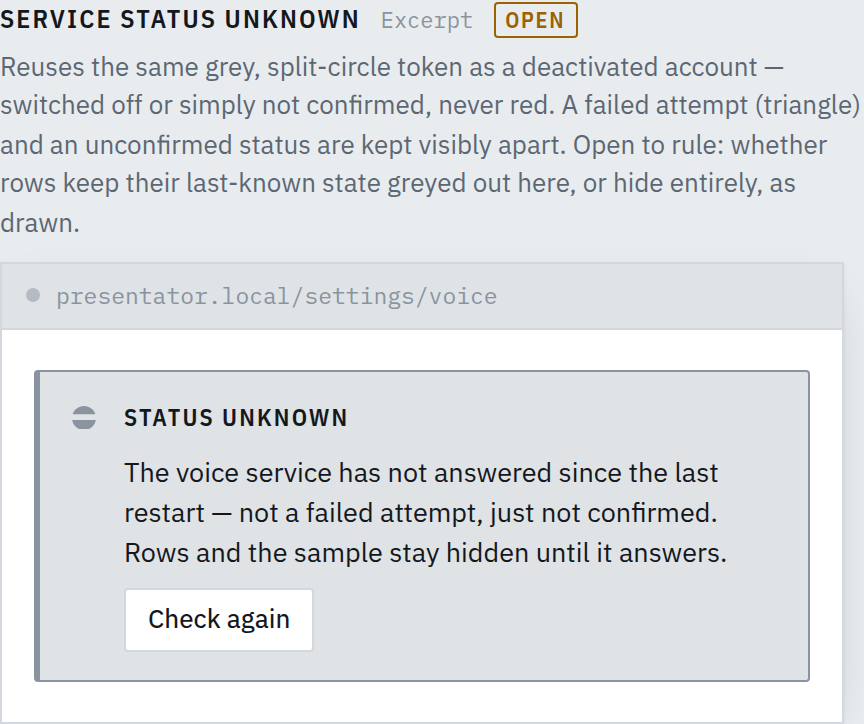
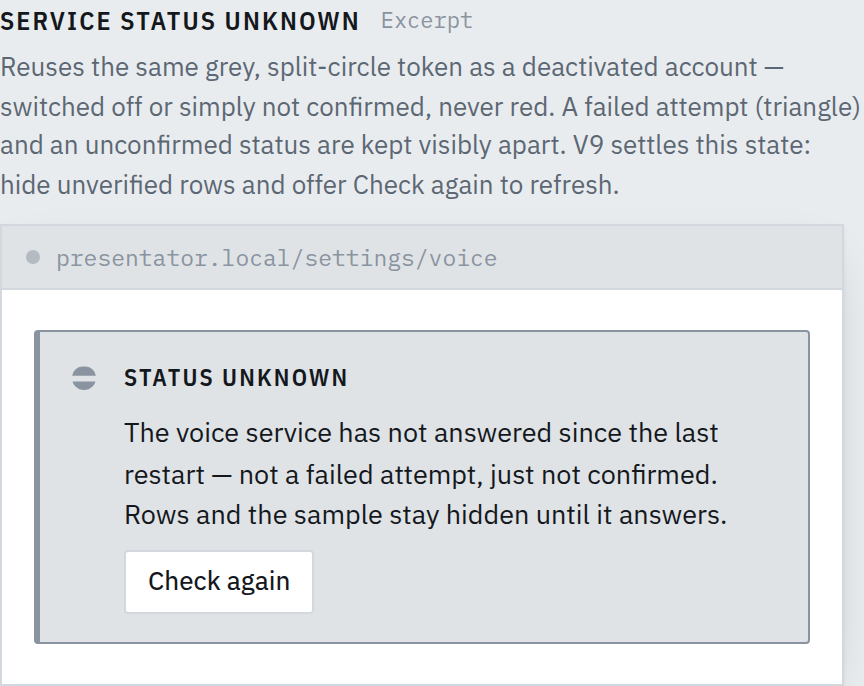
Freeze Voice requirements and settled picture (#135)
* docs: freeze voice requirements candidate

* docs: repair settled voice renders

Changed region(s): [[0.0, 0.3673, 1.0, 0.949], [0.0, 0.0, 1.0, 0.3367]]

diff --git a/docs/mockups/m0-lobby.html b/docs/mockups/m0-lobby.html
@@ -1625,7 +1625,7 @@
           <li><span><b>Sign up, forgot password</b> — an admin creates the account and resets the password (lines 14, 14b)</span></li>
           <li><span><b>Start in M0</b> — the two views are the way into the talk; the co-presenter run arrives with M1 (line 10)</span></li>
           <li><span><b>Build progress bar</b> — the server doesn't know percentages</span></li>
-          <li><span><b>Marketplace, arbitrary Hugging Face IDs, cloud voices, voice cloning</b> — five fixed candidates only, admin-picked (voice picture blessed 10.09.2026; behavior not yet ruled)</span></li>
+          <li><span><b>Marketplace, arbitrary Hugging Face IDs, cloud voices, voice cloning</b> — five fixed candidates only, admin-picked (picture blessed 10.09.2026; V1–V9 adopted; candidates remain unintegrated)</span></li>
         </ul>
       </section>
     </div>
@@ -3277,8 +3277,8 @@
   <section class="group">
     <div class="group-head">
       <h2>Settings · Voice</h2>
-      <span class="tag">Picture blessed · 10.09.2026</span>
-      <span class="lines">TBD — parent #108</span>
+      <span class="tag">Picture blessed · V1–V9 adopted</span>
+      <span class="lines">Owner: docs/requirements/0001-voice-models.md</span>
     </div>
 
     <div class="boards">
@@ -3840,8 +3840,8 @@
 
       <figure class="board">
         <figcaption class="board-cap">
-          <div class="board-title">Service status unknown <span class="w">Excerpt</span> <span class="open-mark">open</span></div>
-          <p class="board-note">Reuses the same grey, split-circle token as a deactivated account — switched off or simply not confirmed, never red. A failed attempt (triangle) and an unconfirmed status are kept visibly apart. Open to rule: whether rows keep their last-known state greyed out here, or hide entirely, as drawn.</p>
+          <div class="board-title">Service status unknown <span class="w">Excerpt</span></div>
+          <p class="board-note">Reuses the same grey, split-circle token as a deactivated account — switched off or simply not confirmed, never red. A failed attempt (triangle) and an unconfirmed status are kept visibly apart. V9 settles this state: hide unverified rows and offer Check again to refresh.</p>
         </figcaption>
         <div class="frame" style="--w: 420px">
           <div class="route">presentator.local/settings/voice</div>

diff --git a/docs/requirements/0001-voice-models.md b/docs/requirements/0001-voice-models.md
@@ -1,0 +1,117 @@
+# Voice model requirements
+
+Audience: the operator and the engineer implementing the admin Voice surface.
+Altitude: precise behavior contract. This document is the single owner of the
+adopted V1–V9 expectations; the [Voice picture](../mockups/README.md) is its
+visual reference and does not claim implementation.
+
+The operator had already spoken admin-only model controls, explicit download,
+load, select, and sample listening through the private control path. The
+remaining reversible defaults below were presented with examples,
+counterexamples, and the head's dissent, then adopted under the standing
+expectation-list rule after a response window exceeding two minutes without a
+contrary reply. This records adoption provenance; it does not claim a new
+explicit yes.
+
+Piper and Chatterbox are supported baselines. Qwen3-TTS 0.6B, VoxCPM2, and
+NVIDIA Magpie are the named candidate scope. No candidate is described as
+installed or downloaded here: those states require runtime evidence under V9.
+Piper's installed Thorsten voice remains German and must be labelled that way.
+
+## Adopted expectations
+
+### V1 · download without selection
+
+An admin explicitly downloads a listed model; downloading does not select it.
+Default: manual download, then Load.
+
+- Example: download Qwen while Chatterbox remains active.
+- Counterexample: opening Settings downloads weights or silently changes the
+  voice.
+
+### V2 · switch between sentences
+
+Once loading succeeds, the next spoken sentence uses the selected voice; a
+sentence already speaking finishes unchanged. Default: switch between
+sentences.
+
+- Example: finish the current Chatterbox sentence, then use Piper.
+- Counterexample: change voice or sample rate halfway through the current
+  sentence.
+
+### V3 · visible switching state
+
+New speech requested during a model change gets a visible busy or failure
+state. Default: refuse while switching, without a hidden queue.
+
+- Example: presenter text remains visible with an explicit speech failure.
+- Counterexample: the answer waits silently behind a model load until timeout.
+
+### V4 · honest load recovery
+
+A failed load keeps the old voice when possible; if it had to be released,
+show no active voice and offer Load again. Default: honest recovery state.
+
+- Example: a failed baseline load leaves Chatterbox active; a failed GPU
+  replacement may leave none.
+- Counterexample: claim the old voice is active after its process was released.
+
+### V5 · restore the selected voice
+
+The speech service restores the selected voice after restart. Only a
+never-selected instance uses its configured initial default; an
+invalid/unloadable stored choice stays stored and shows no active voice.
+Default: restore selection, no silent fallback.
+
+- Example: select Piper, restart, get Piper; a failed stored choice is shown
+  for recovery.
+- Counterexample: restart silently changes the choice or overwrites a failed
+  selection.
+
+### V6 · admin-only controls
+
+Only admins may view or change model controls or trigger samples, through the
+existing authenticated lobby and private speech control path. Admin-only is
+already ruled: there is no public or co-presenter control route.
+
+- Example: an admin opens Voice; a non-admin gets 403.
+- Counterexample: a visitor or unauthenticated co-presenter endpoint can load a
+  model.
+
+### V7 · change without removal
+
+Choosing another model undoes a selection; downloaded weights stay and no
+selection history or Delete control is added. Default: change back, retain
+downloads.
+
+- Example: load Chatterbox after trying Piper.
+- Counterexample: offer a history rollback or remove model files automatically.
+
+### V8 · current talk keeps synthesis
+
+One sample uses the active voice and visibly waits if a talk owns synthesis.
+Default: give the current talk priority.
+
+- Example: the player shows Waiting until the current answer releases speech.
+- Counterexample: a preview changes models secretly, overlaps samples, or
+  interrupts the talk.
+
+### V9 · truthful runtime state
+
+Show actual active, downloaded, loading, failed, and unavailable states;
+unimplemented candidates say not yet available. When service status cannot be
+verified, hide the rows and offer Check again to refresh. Display declared
+language and preset information without inventing progress, speed, or quality.
+Default: truthful status and upstream facts.
+
+- Example: installed German Piper is named accurately; a pending adapter has
+  no fake Download button.
+- Counterexample: promise native English Piper, invent a percentage, or
+  advertise a benchmark never measured here.
+
+## Boundary
+
+This document rules intended behavior only. The Voice mockup remains future
+surface evidence, and the named candidates remain unintegrated until runtime
+evidence establishes their actual state. Functional implementation, runtime
+configuration, persistence, and tests belong to parent #108 and later S0 work.

diff --git a/docs/mockups/README.md b/docs/mockups/README.md
@@ -13,8 +13,9 @@ surface starts here: extend this sheet, get the blessing on the owning item,
 re-render, then rule.
 
 The Settings · Voice picture was blessed by the operator on 10.09.2026 (issue
-#123, parent #108). Its functional expectation lines are not yet ruled — see
-the approval tag on the section and the Lines column marked TBD.
+#123, parent #108). Its adopted V1–V9 behavior contract is owned by
+[`docs/requirements/0001-voice-models.md`](../requirements/0001-voice-models.md);
+the mockup remains future surface evidence, not an implementation claim.
 
 ## M0 lobby sheet
 
@@ -23,7 +24,8 @@ wide). Per-artboard renders in `m0-lobby/`, device scale factor 2, cropped to
 each `.board` element, in document order. "Lines" gives the issue #8
 expectation lines the artboard's own caption cites; where the caption cites
 none, the group's line range from the sheet's section header is given instead
-(marked "group").
+(marked "group"). The Voice table's "Ruling" column links the adopted V1–V9
+requirements that its caption or rendered state demonstrates.
 
 ### Login (lines 12, 14)
 
@@ -78,20 +80,20 @@ none, the group's line range from the sheet's section header is given instead
 | `m0-lobby/users-create.png` | Create user | 14 |
 | `m0-lobby/users-deactivate.png` | Deactivate — confirm | 14b |
 
-### Settings · Voice (picture blessed 10.09.2026, behavior not yet ruled)
+### Settings · Voice (picture blessed 10.09.2026, V1–V9 adopted)
 
-| PNG | Caption | Lines |
+| PNG | Caption | Ruling |
 |---|---|---|
-| `m0-lobby/voice.png` | Voice · resting | TBD |
-| `m0-lobby/voice-narrow.png` | Split screen, 390 px | TBD |
-| `m0-lobby/voice-downloading.png` | Downloading | TBD |
-| `m0-lobby/voice-loading.png` | Loading | TBD |
-| `m0-lobby/voice-failed-active.png` | Load failed — previous voice stays active | TBD |
-| `m0-lobby/voice-failed-no-active.png` | Load failed — no active voice | TBD |
-| `m0-lobby/voice-service-unknown.png` | Service status unknown | TBD |
-| `m0-lobby/voice-sample-loading.png` | Sample: loading | TBD |
-| `m0-lobby/voice-sample-playing.png` | Sample: playing | TBD |
-| `m0-lobby/voice-sample-error.png` | Sample: playback failed | TBD |
+| `m0-lobby/voice.png` | Voice · resting | [V1–V9](../requirements/0001-voice-models.md) |
+| `m0-lobby/voice-narrow.png` | Split screen, 390 px | [V1–V9](../requirements/0001-voice-models.md) |
+| `m0-lobby/voice-downloading.png` | Downloading | [V1, V9](../requirements/0001-voice-models.md) |
+| `m0-lobby/voice-loading.png` | Loading | [V2, V3, V9](../requirements/0001-voice-models.md) |
+| `m0-lobby/voice-failed-active.png` | Load failed — previous voice stays active | [V4, V9](../requirements/0001-voice-models.md) |
+| `m0-lobby/voice-failed-no-active.png` | Load failed — no active voice | [V4, V5, V9](../requirements/0001-voice-models.md) |
+| `m0-lobby/voice-service-unknown.png` | Service status unknown | [V9](../requirements/0001-voice-models.md) |
+| `m0-lobby/voice-sample-loading.png` | Sample: loading | [V8, V9](../requirements/0001-voice-models.md) |
+| `m0-lobby/voice-sample-playing.png` | Sample: playing | [V8, V9](../requirements/0001-voice-models.md) |
+| `m0-lobby/voice-sample-error.png` | Sample: playback failed | [V8, V9](../requirements/0001-voice-models.md) |
 
 Piper and Chatterbox are installed on the live instance (921c53f2); Qwen3-TTS
 0.6B, VoxCPM2, and NVIDIA Magpie are proposed candidates only, not yet

diff --git a/docs/README.md b/docs/README.md
@@ -13,7 +13,7 @@ this map and an owner disagree, the owner is right.
 | Why does this tool exist, and what does the operator want from it? | Vision | [`VISION.md`](VISION.md) |
 | What exists today? | Product | [`PRODUCT.md`](PRODUCT.md) |
 | Why was it built this way? | Decisions | Records indexed by [`decisions/README.md`](decisions/README.md) |
-| What must it be able to do? | Requirements | No owner yet. `docs/requirements/` is created with the first ruled expectation list. |
+| What must it be able to do? | Requirements | [`0001-voice-models.md`](requirements/0001-voice-models.md) |
 | How is this installation started, protected, and scanned? | Operations | [`OPERATIONS.md`](OPERATIONS.md) |
 | How is a change proven? | Testing | [`TESTING.md`](TESTING.md) |
 | What does the lobby look like? | Picture | [`mockups/README.md`](mockups/README.md) |
